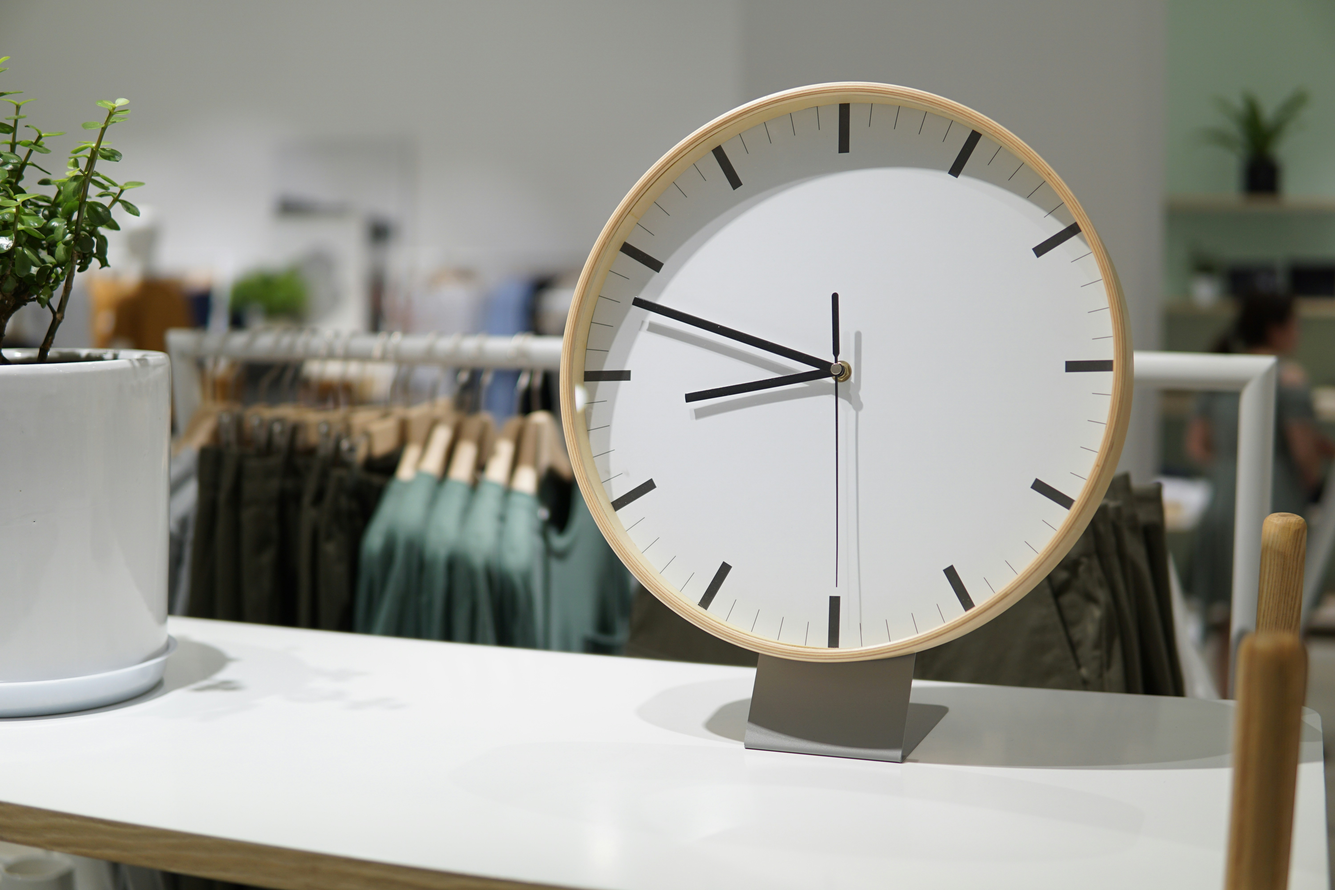
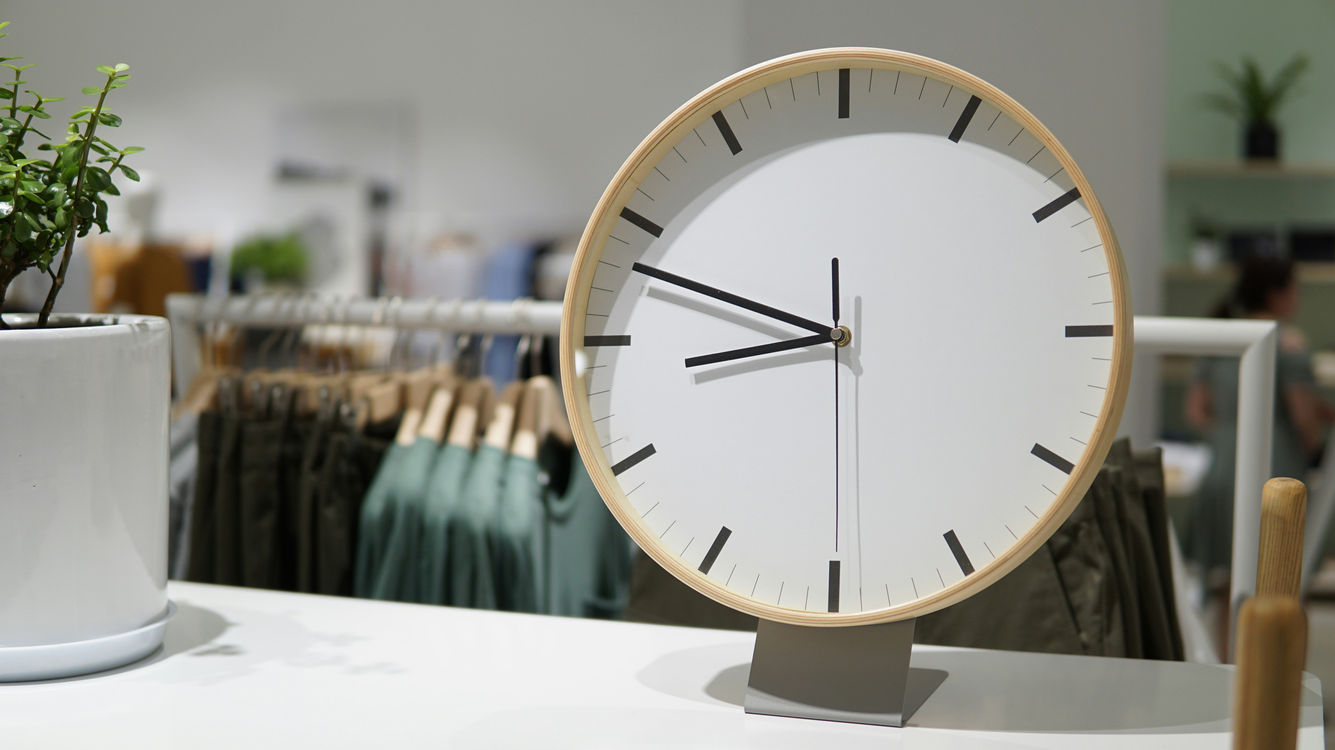
add CSS for top_slide & change image size(16:9)

diff --git a/components/top_slide.vue b/components/top_slide.vue
@@ -1,12 +1,18 @@
 <template>
-    <div>
-        <div>
-            <nuxt-img src="/images/0101.jpg" alt="product-image" format="webp" />
+    <div class="grid grid-cols-12 relative mx-[8%]">
+        <div class="col-start-2 col-span-10">
+            <div class="card bg-base-100 shadow-xl">
+                <nuxt-img src="/images/0101.jpg" alt="product-image" format="webp" />
+            </div>
         </div>
-        <div>
-            <h2 class="btn">Product Title</h2>
-            <p>商品説明の概要が入ります．</p>
-            <h4>¥3,500 (税込)</h4>
+        <div class="col-start-2 col-span-4 absolute bottom-6 left-6 w-full">
+            <div class="flex flex-col space-y-4 px-6 py-4 bg-white">
+                <div>
+                    <h2 class="text-2xl text-black">Product Title</h2>
+                    <p class="text-black">商品説明の概要が入ります．商品説明の概要が入ります．</p>
+                </div>
+                <h4 class="text-xl text-black">¥3,500 (税込)</h4>
+            </div>
         </div>
     </div>
 </template>
